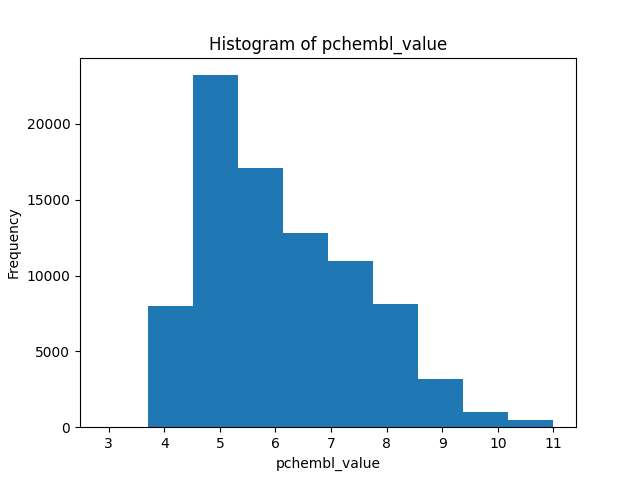
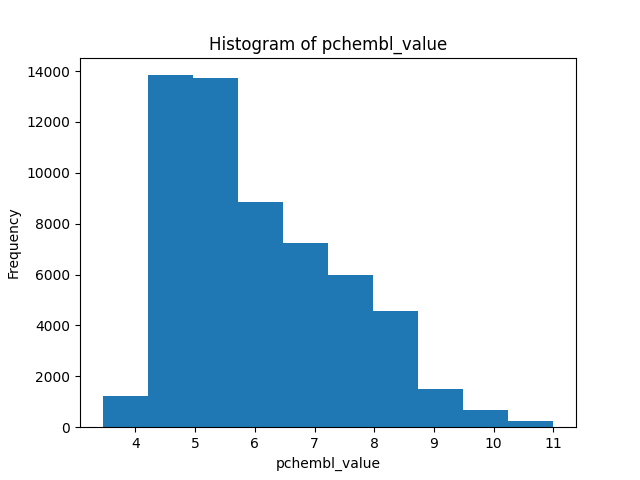
Clean small SMILES without error

diff --git a/filter_table.py b/filter_table.py
@@ -1,41 +1,107 @@
-import matplotlib.pyplot as plt
-import csv
+import sys
 import pandas as pd
 import numpy as np
+import matplotlib.pyplot as plt
+
+sys.path.append('../FS-Mol-Orgs/fs_mol/preprocessing')
+sys.path.append('../FS-Mol-Orgs/fs_mol/preprocessing/utils')
+from clean import *
+from featurize import *
+
+from standardizer import Standardizer
+from rdkit import Chem
+from rdkit.Chem.Descriptors import MolWt
 
 ACTIVE_CUTOFF = 6
+FILTER_CRITERIA = 16
+SAVE = True
 
-# Assuming you have a DataFrame named 'df' with the data and 'pchembl_value' as the column
-df = pd.read_csv('bioassay_table_filtered.csv')
+def filter_assays(df):
+    # Group by assay
+    gp = df.groupby('assay_id')
+    x = gp.size()
+    plt.hist(x, range = [0, 75], bins=15, weights=np.ones(len(x)) / len(x))
+    plt.xlabel('Number of compounds')
+    plt.ylabel('Percentage')
+    plt.title('Compounds per assay')
+    if SAVE: 
+        plt.savefig('compounds_per_assay.png')
+    # Seems that ~60% of the assays have fewer than 5 compounds
+    # We filter out compounds with fewer than FILTER_CRITERIA compounds
 
-# Group by assay
-gp = df.groupby('assay_id')
-x = gp.size()
-plt.hist(x, range = [0, 75], bins=15, weights=np.ones(len(x)) / len(x))
-plt.xlabel('Number of compounds')
-plt.ylabel('Percentage')
-plt.title('Compounds per assay')
-plt.savefig('compounds_per_assay.png')
-# Seems that ~60% of the assays have fewer than 5 compounds
-# We filter those out
+    # Grouping by assay
+    filtered_df = gp.filter(lambda x: len(x) > FILTER_CRITERIA)
+    print('Post Filtering, # of unique assays', len(filtered_df['assay_id'].unique()))
+    print('Post Filtering, # of unique compounds', len(filtered_df))
 
-# Grouping by assay
-filtered_df = gp.filter(lambda x: len(x) > 5)
-print('Post Filtering, # of unique assays', len(filtered_df['assay_id'].unique()))
-print('Post Filtering, # of unique compounds', len(filtered_df))
+    # Plotting the histogram
+    plt.clf()
+    plt.hist(filtered_df['pchembl_value'])
+    plt.xlabel('pchembl_value')
+    plt.ylabel('Frequency')
+    plt.title('Histogram of pchembl_value')
+    if SAVE: 
+        plt.savefig('pchebml_value_histogram.png')
 
-# # Plotting the histogram
-plt.clf()
-plt.hist(filtered_df['pchembl_value'])
-plt.xlabel('pchembl_value')
-plt.ylabel('Frequency')
-plt.title('Histogram of pchembl_value')
-plt.savefig('pchebml_value_histogram.png')
+    # For each line of bioassay_table_filtered.csv, 
+    # if pchembl_value > cutoff then active = true, otherwise active = false
+    activity_benchmark = lambda x: 'true' if x > ACTIVE_CUTOFF else 'false'
+    filtered_df['active'] = filtered_df['pchembl_value'].apply(activity_benchmark)
 
-# For each line of bioassay_table_filtered.csv, 
-# if pchembl_value > cutoff then active = true, otherwise active = false
-activity_benchmark = lambda x: 'true' if x > ACTIVE_CUTOFF else 'false'
-filtered_df['active'] = filtered_df['pchembl_value'].apply(activity_benchmark)
+    # Save to new csv
+    if SAVE:
+        filtered_df.to_csv('bioassay_table_filtered_active.csv', index=False)
 
-# Save to new csv
-filtered_df.to_csv('bioassay_table_filtered_active.csv', index=False)
+    return filtered_df
+
+def prepare_data(df):
+    """
+        We now want to store the data as it is stored by FSMol. 
+        The ExtractDataset notebook and preprocessing folder contain useful information.
+        After loading in the assays
+            (information: chembl_id, assay_type, molregno_num, confidence_score),
+        and for each assay relevant data
+            (information: CHEMBL_ASSAY_PROTEIN query in preprocessing/utils/queries.py),
+        they 'clean' the data by 
+            1. Removing all assays that do not have units %, uM, nM
+            2. Standardizing SMILES
+            3. Applying a thresholding technique based on median activity measurement of the assay (given some criteria)
+                3a. The default is 5 if criteria are not met
+        they split into train/test/validation in part based on a classification of the assay.
+        That is, depending on the type of protein target.
+        Finally, they 'featureize' the SMILES string and use it to create rdkit mol objects.
+
+        Of these steps, those that seem relevant are the standardization of SMILES and the featurization.
+    """
+
+    # Get small sample from df
+    small_df = df.head(10) 
+
+    sm = Standardizer(canon_taut=True)
+
+    def standardize_smile(x: str):
+        try:
+            mol = Chem.MolFromSmiles(x)
+            mol_weight = MolWt(mol)  # get molecular weight to do downstream filtering
+            num_atoms = mol.GetNumAtoms()
+            standardized_mol, _ = sm.standardize_mol(mol)
+            return Chem.MolToSmiles(standardized_mol), mol_weight, num_atoms
+        except Exception:
+            # return a fail as None (downstream filtering)
+            return None
+
+    standard = small_df["smiles"].apply(lambda row: standardize_smile(row))
+    small_df["canonical_smiles"] = standard.apply(lambda row: row[0])
+    small_df["molecular_weight"] = standard.apply(lambda row: row[1])
+    small_df["num_atoms"] = standard.apply(lambda row: row[2])
+
+    # clean_df = standardize_smiles(df)
+    # print(clean_df)
+    return small_df    
+
+if __name__ ==  '__main__':
+    # Assuming you have a DataFrame named 'df' with the data and 'pchembl_value' as the column
+    df = pd.read_csv('bioassay_table_filtered.csv')
+    filtered_df = filter_assays(df)
+    clean_df = prepare_data(filtered_df)
+    print(clean_df)

diff --git a/extract_table.py b/extract_table.py
@@ -55,7 +55,7 @@ def chembl_activity_target(db_user, db_password, db_name='chembl_33',
 			oct.l1 AS organism_taxonomy_l1,
 			oct.l2 AS organism_taxonomy_l2,
 			oct.l3 AS organism_taxonomy_l3,
-			cnd_s.canonical_smiles, 
+			cnd_s.canonical_smiles AS smiles, 
 			act.pchembl_value
 		FROM target_dictionary td
 		INNER JOIN assays a ON td.tid = a.tid
